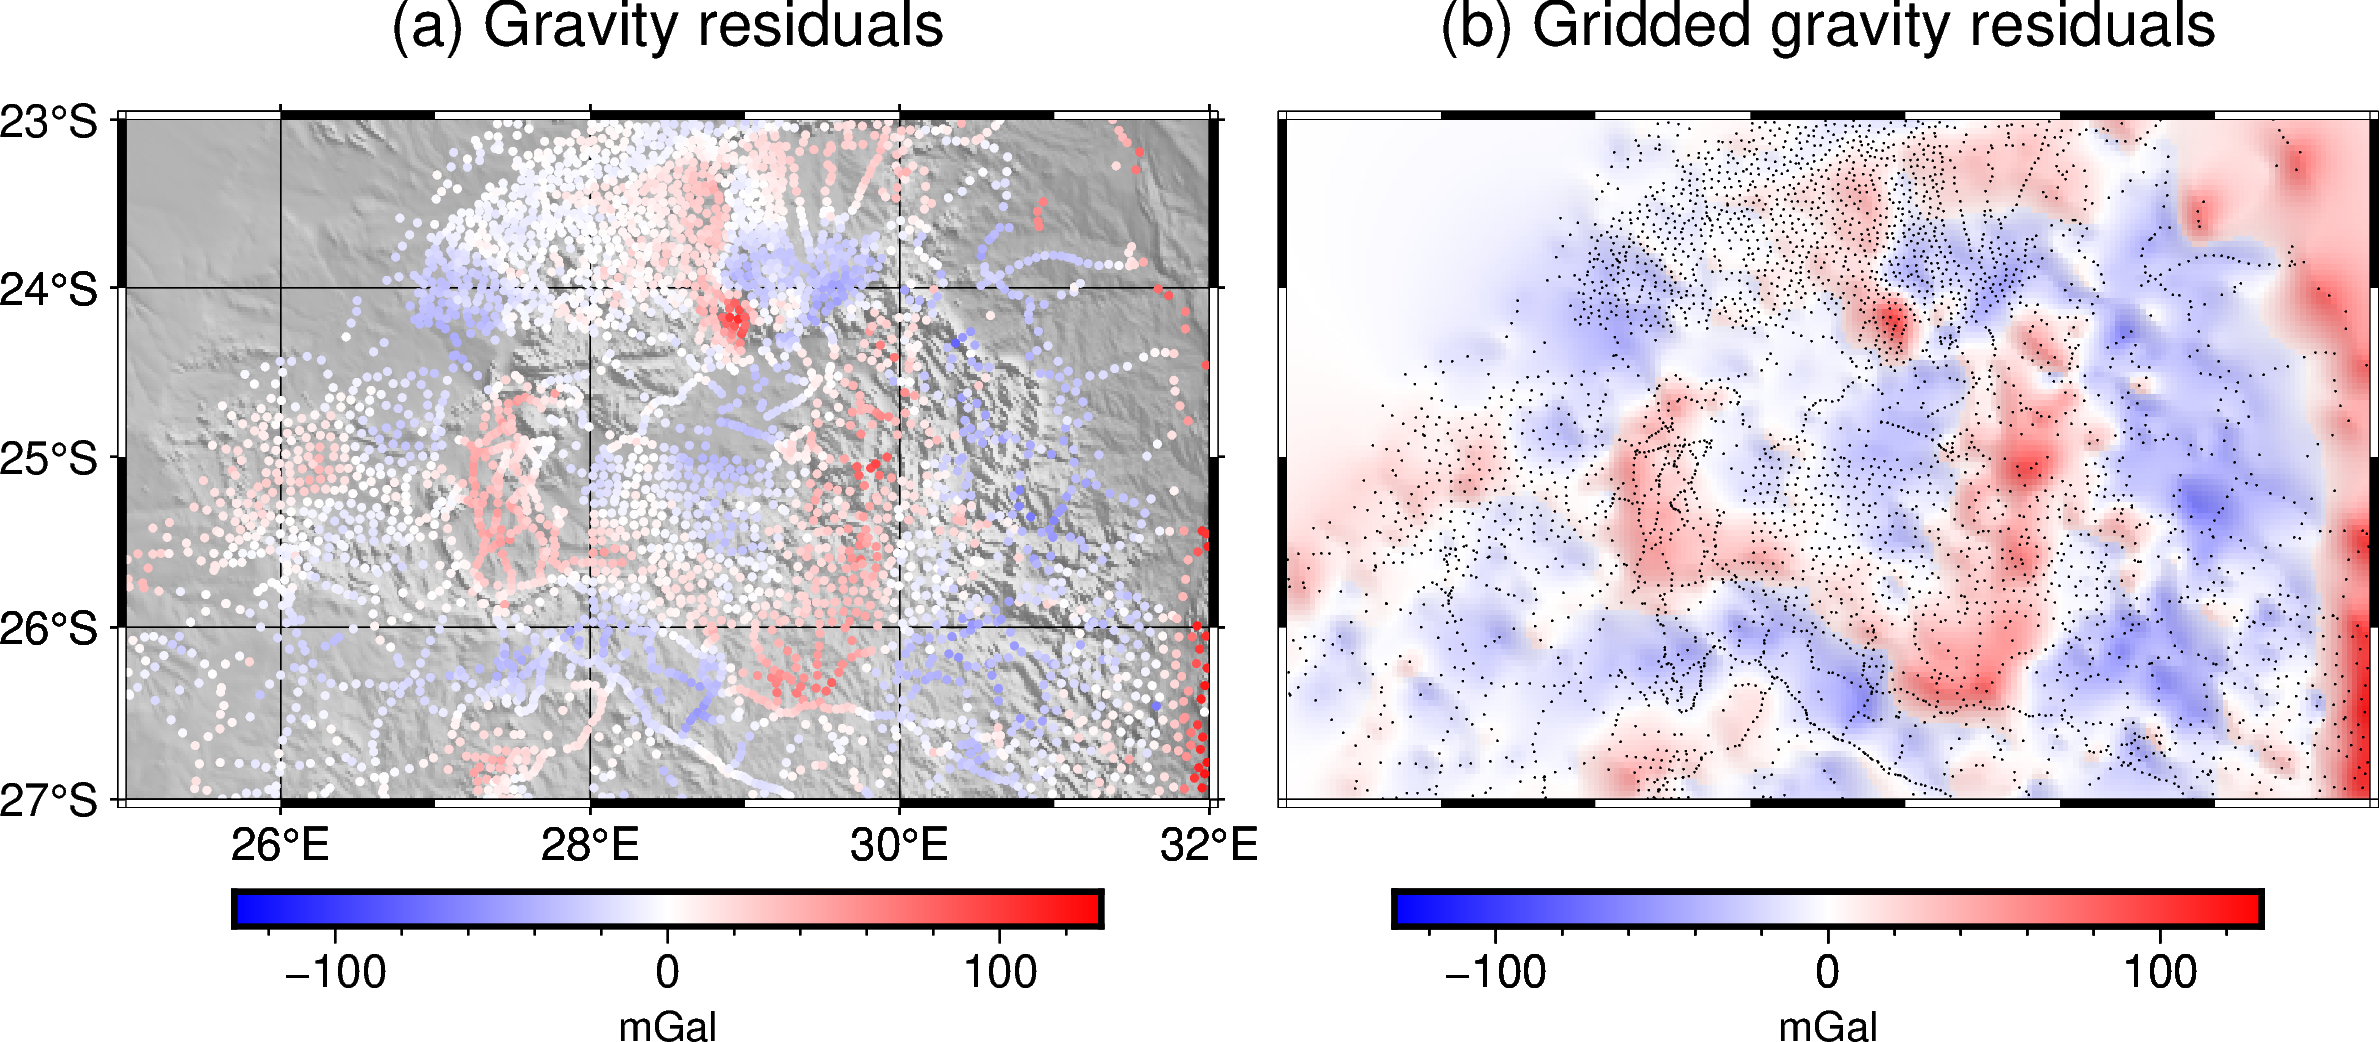
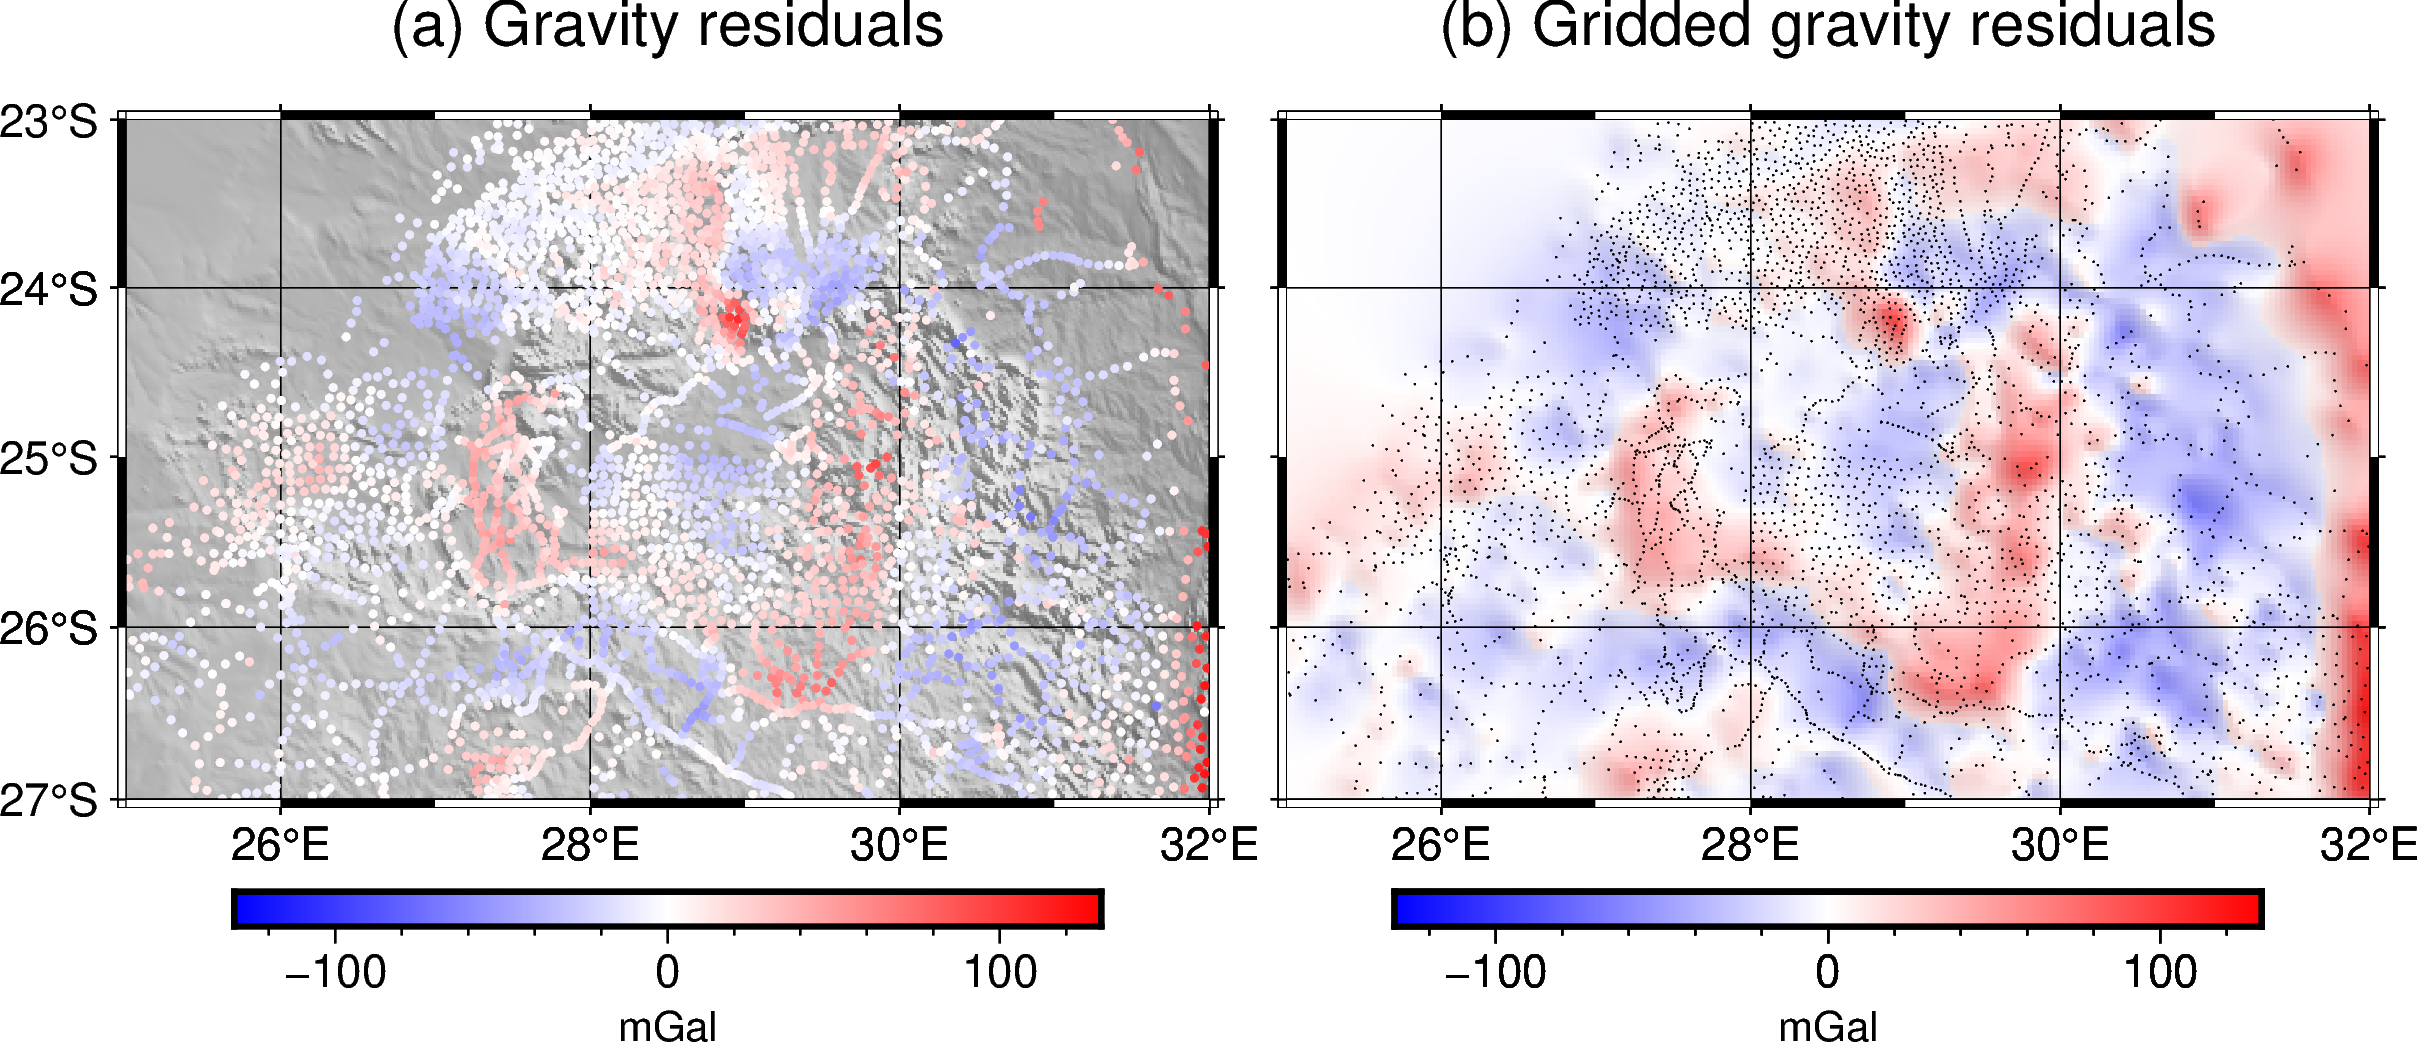
Improve labels of plots

diff --git a/extended-abstract/code/gravity_processing.py b/extended-abstract/code/gravity_processing.py
@@ -230,6 +230,7 @@ with fig.subplot(
     figsize=("19c", "8c"),
     autolabel="(a)+jTC",
     sharey="l",
+    frame="WSrt",
 ):
     with fig.set_panel(panel=0, fixedlabel="(a) Gravity disturbance"):
         # Plot relief
@@ -286,7 +287,7 @@ with fig.subplot(
             cmap=True,
             style="c2p",
             projection=projection,
-            frame="fg",
+            frame=["afg", "wSne"],
         )
         fig.colorbar(frame='af+l"mGal"')
 
@@ -345,7 +346,6 @@ with fig.subplot(
             residual_grid.gravity_residual,
             shading="+a45+nt0.15",
             projection=projection,
-            frame="f",
         )
         fig.colorbar(frame="af")
         fig.plot(
@@ -353,6 +353,7 @@ with fig.subplot(
             y=data.latitude,
             style="c0.5p",
             color="black",
+            frame=["wSne", "afg"],
         )
         fig.colorbar(frame='af+l"mGal"')
 
